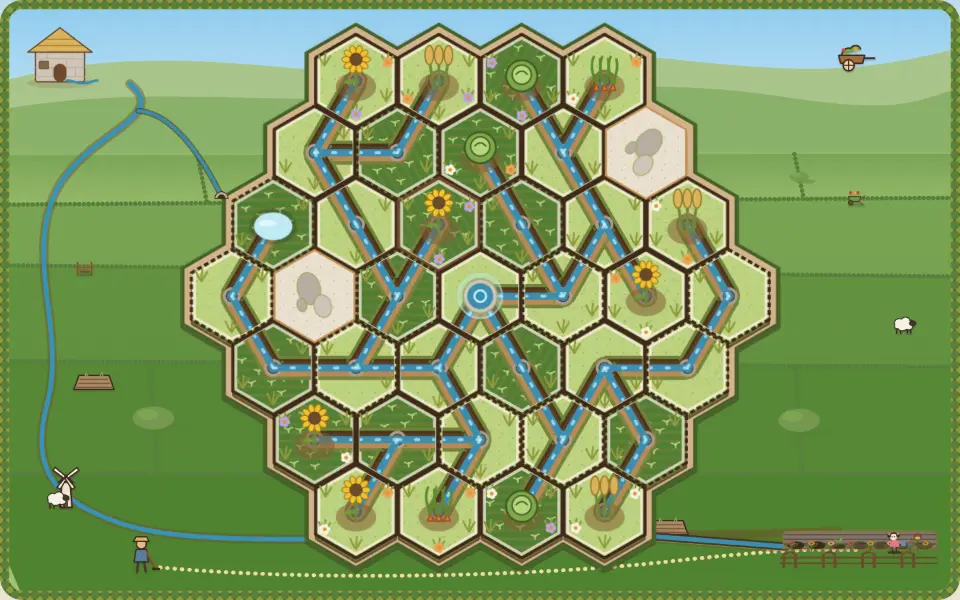
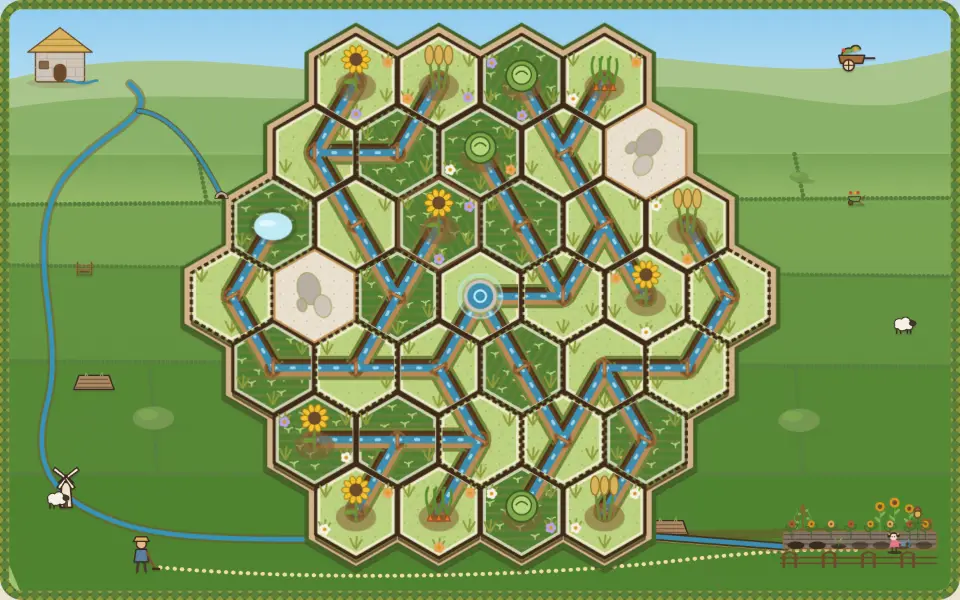
Runnel: Bea's garden gets a back row: a bean wigwam, sunflowers that wilt dry and lift when watered (plan 329, slice 1)
Claude-Session: https://claude.ai/code/session_01SimvMN1RHBGCWN7Eo7MzhN

diff --git a/games/runnel/index.html b/games/runnel/index.html
@@ -112,6 +112,20 @@
           <p class="farm-sign spring-sign">The spring house</p>
           <div class="bea-garden">
             <p class="farm-sign">Bea's garden</p>
+            <!-- Plan item 329: the garden's back row: a bean wigwam, sunflowers and a water butt. Dry, the sunflowers hang
+                 their heads; watered (data-watered), they lift and colour in, one after another. -->
+            <svg class="garden-back" viewBox="0 0 236 48" aria-hidden="true">
+              <g class="gb-wigwam" transform="translate(34 46)">
+                <path class="gb-pole" d="M-14 0L0 -42L14 0M0 -42L0 0" />
+                <path class="gb-vine" d="M-11 -8q4 -4 0 -9q-4 -5 1 -10q4 -4 1 -9M11 -8q-4 -4 0 -9q4 -5 -1 -10q-4 -4 -1 -9" />
+                <g class="gb-beans"><circle cx="-8" cy="-14" r="2.4" /><circle cx="8" cy="-20" r="2.4" /><circle cx="-5" cy="-27" r="2.2" /><circle cx="6" cy="-32" r="2" /><circle cx="-9" cy="-6" r="2.4" /><circle cx="9" cy="-9" r="2.4" /></g>
+                <path class="gb-pod" d="M-3 -18q-1 5 1 8M4 -12q-1 5 1 8" />
+              </g>
+              <g class="gb-sun s1" transform="translate(150 46)"><path class="gb-stem" d="M0 0V-38" /><path class="gb-leaf" d="M0 -14q-7 -3 -9 -9q7 0 9 6M0 -22q7 -3 9 -9q-7 0 -9 6" /><g transform="translate(0 -38)"><g class="gb-head"><circle r="7" class="gb-petals" /><circle r="3.4" class="gb-eye" /></g></g></g>
+              <g class="gb-sun s2" transform="translate(172 46)"><path class="gb-stem" d="M0 0V-44" /><path class="gb-leaf" d="M0 -16q-7 -3 -9 -9q7 0 9 6M0 -26q7 -3 9 -9q-7 0 -9 6" /><g transform="translate(0 -44)"><g class="gb-head"><circle r="7.5" class="gb-petals" /><circle r="3.6" class="gb-eye" /></g></g></g>
+              <g class="gb-sun s3" transform="translate(194 46)"><path class="gb-stem" d="M0 0V-35" /><path class="gb-leaf" d="M0 -12q-7 -3 -9 -9q7 0 9 6M0 -20q7 -3 9 -9q-7 0 -9 6" /><g transform="translate(0 -35)"><g class="gb-head"><circle r="6.5" class="gb-petals" /><circle r="3.2" class="gb-eye" /></g></g></g>
+              <g class="gb-butt" transform="translate(220 46)"><rect x="-8" y="-20" width="16" height="20" rx="3" /><path d="M-8 -13h16M-8 -6h16" /></g>
+            </svg>
             <div class="bea-crops" id="bea-crops"></div>
             <!-- Plan item 197: the garden grows as the fields are watered (seedlings, leaves, then flowers and a scarecrow). -->
             <svg class="garden-growth" viewBox="0 0 160 28" preserveAspectRatio="none" aria-hidden="true"><g class="gg" transform="translate(12 24)"><path class="gg-seed" d="M0 0v-4m0 1c-2 0-3-1-3-3 2 0 3 1 3 3m0-1c2 0 3-1 3-3-2 0-3 1-3 3"/><path class="gg-leaf" d="M0 0v-9m0 3c-4 0-6-2-6-5 4 0 6 2 6 5m0-2c4 0 6-2 6-5-4 0-6 2-6 5"/><g class="gg-flower"><path d="M0 0v-12"/><circle cx="0" cy="-13" r="3.2" class="gg-petal p0"/><circle cx="0" cy="-13" r="1.2" class="gg-eye"/></g></g><g class="gg" transform="translate(32 24)"><path class="gg-seed" d="M0 0v-4m0 1c-2 0-3-1-3-3 2 0 3 1 3 3m0-1c2 0 3-1 3-3-2 0-3 1-3 3"/><path class="gg-leaf" d="M0 0v-9m0 3c-4 0-6-2-6-5 4 0 6 2 6 5m0-2c4 0 6-2 6-5-4 0-6 2-6 5"/><g class="gg-flower"><path d="M0 0v-12"/><circle cx="0" cy="-13" r="3.2" class="gg-petal p1"/><circle cx="0" cy="-13" r="1.2" class="gg-eye"/></g></g><g class="gg" transform="translate(52 24)"><path class="gg-seed" d="M0 0v-4m0 1c-2 0-3-1-3-3 2 0 3 1 3 3m0-1c2 0 3-1 3-3-2 0-3 1-3 3"/><path class="gg-leaf" d="M0 0v-9m0 3c-4 0-6-2-6-5 4 0 6 2 6 5m0-2c4 0 6-2 6-5-4 0-6 2-6 5"/><g class="gg-flower"><path d="M0 0v-12"/><circle cx="0" cy="-13" r="3.2" class="gg-petal p2"/><circle cx="0" cy="-13" r="1.2" class="gg-eye"/></g></g><g class="gg" transform="translate(72 24)"><path class="gg-seed" d="M0 0v-4m0 1c-2 0-3-1-3-3 2 0 3 1 3 3m0-1c2 0 3-1 3-3-2 0-3 1-3 3"/><path class="gg-leaf" d="M0 0v-9m0 3c-4 0-6-2-6-5 4 0 6 2 6 5m0-2c4 0 6-2 6-5-4 0-6 2-6 5"/><g class="gg-flower"><path d="M0 0v-12"/><circle cx="0" cy="-13" r="3.2" class="gg-petal p0"/><circle cx="0" cy="-13" r="1.2" class="gg-eye"/></g></g><g class="gg" transform="translate(92 24)"><path class="gg-seed" d="M0 0v-4m0 1c-2 0-3-1-3-3 2 0 3 1 3 3m0-1c2 0 3-1 3-3-2 0-3 1-3 3"/><path class="gg-leaf" d="M0 0v-9m0 3c-4 0-6-2-6-5 4 0 6 2 6 5m0-2c4 0 6-2 6-5-4 0-6 2-6 5"/><g class="gg-flower"><path d="M0 0v-12"/><circle cx="0" cy="-13" r="3.2" class="gg-petal p1"/><circle cx="0" cy="-13" r="1.2" class="gg-eye"/></g></g><g class="gg" transform="translate(112 24)"><path class="gg-seed" d="M0 0v-4m0 1c-2 0-3-1-3-3 2 0 3 1 3 3m0-1c2 0 3-1 3-3-2 0-3 1-3 3"/><path class="gg-leaf" d="M0 0v-9m0 3c-4 0-6-2-6-5 4 0 6 2 6 5m0-2c4 0 6-2 6-5-4 0-6 2-6 5"/><g class="gg-flower"><path d="M0 0v-12"/><circle cx="0" cy="-13" r="3.2" class="gg-petal p2"/><circle cx="0" cy="-13" r="1.2" class="gg-eye"/></g></g><g class="gg" transform="translate(132 24)"><path class="gg-seed" d="M0 0v-4m0 1c-2 0-3-1-3-3 2 0 3 1 3 3m0-1c2 0 3-1 3-3-2 0-3 1-3 3"/><path class="gg-leaf" d="M0 0v-9m0 3c-4 0-6-2-6-5 4 0 6 2 6 5m0-2c4 0 6-2 6-5-4 0-6 2-6 5"/><g class="gg-flower"><path d="M0 0v-12"/><circle cx="0" cy="-13" r="3.2" class="gg-petal p0"/><circle cx="0" cy="-13" r="1.2" class="gg-eye"/></g></g><g class="gg" transform="translate(148 24)"><path class="gg-seed" d="M0 0v-4m0 1c-2 0-3-1-3-3 2 0 3 1 3 3m0-1c2 0 3-1 3-3-2 0-3 1-3 3"/><path class="gg-leaf" d="M0 0v-9m0 3c-4 0-6-2-6-5 4 0 6 2 6 5m0-2c4 0 6-2 6-5-4 0-6 2-6 5"/><g class="gg-flower"><path d="M0 0v-12"/><circle cx="0" cy="-13" r="3.2" class="gg-petal p1"/><circle cx="0" cy="-13" r="1.2" class="gg-eye"/></g></g><g class="gg-scarecrow" transform="translate(140 26)"><path d="M0 0v-22M-7 -16h14" /><circle cx="0" cy="-24" r="3.4" /><path d="M-4 -27h8l-4-4z" /></g></svg>

diff --git a/games/runnel/src/styles.css b/games/runnel/src/styles.css
@@ -4641,3 +4641,33 @@ body[data-mode='sunday'] .rail > .cal-title:first-of-type {
 }
 /* Plan item 315: the notebook's inked glyph size (46 px) doesn't shrink the steps' tiles. */
 .lesson-panel[data-notebook] .lc-steps .lc-step-art { width: 48px; height: 48px; }
+
+/* Plan item 329: Bea's garden's back row (a bean wigwam, sunflowers, a water butt) over its beds, so the garden reads as
+   a garden and not a plank trough. Dry, the sunflowers hang their heads in faded straw; watered, they lift and colour in
+   one after another over 600-900 ms (under reduced motion they change at once, with no turn). */
+.garden-back {
+  display: block;
+  width: 100%;
+  height: auto;
+  margin-bottom: -6px;
+  overflow: visible;
+  pointer-events: none;
+}
+.gb-pole { fill: none; stroke: var(--stake); stroke-width: 2; stroke-linecap: round; }
+.gb-vine { fill: none; stroke: var(--ga-leaf); stroke-width: 1.6; stroke-linecap: round; }
+.gb-beans circle { fill: var(--ga-leaf-2); }
+.gb-pod { fill: none; stroke: var(--ga-leaf); stroke-width: 1.8; stroke-linecap: round; }
+.gb-stem { fill: none; stroke: var(--ga-leaf); stroke-width: 2; stroke-linecap: round; }
+.gb-leaf { fill: var(--ga-leaf-2); }
+.gb-petals { fill: color-mix(in srgb, var(--gold) 40%, var(--soil)); transition: fill 600ms ease; }
+.gb-eye { fill: var(--soil); }
+.gb-head { transform-box: fill-box; transform-origin: 50% 100%; rotate: 65deg; transition: rotate 700ms cubic-bezier(.3, 1.4, .5, 1); }
+.gb-butt rect { fill: var(--stake); stroke: var(--groove); stroke-width: 1; }
+.gb-butt path { fill: none; stroke: var(--groove); stroke-width: 1.2; }
+.bea-garden[data-watered='true'] .gb-head { rotate: 0deg; }
+.bea-garden[data-watered="true"] .gb-petals { fill: var(--gold); }
+.bea-garden[data-watered='true'] .s2 :is(.gb-head, .gb-petals) { transition-delay: 100ms; }
+.bea-garden[data-watered='true'] .s3 :is(.gb-head, .gb-petals) { transition-delay: 200ms; }
+@media (prefers-reduced-motion: reduce) {
+  .gb-head { transition: none; }
+}

diff --git a/docs/plan/two-week-plan.md b/docs/plan/two-week-plan.md
@@ -3101,7 +3101,7 @@ The items come from fresh-eyes audits on 2026-11-01 and 2026-11-02 (items 25-32:
 - **Accept:** a picked and an unpicked card differ by more than the border (lift, ribbon). Power text ≥ 14 px at 4.5:1. Cath's box does not intersect Start. Setup specs pass. Shots P and D, light and dark.
 - **Size:** 2
 
-## 329. [ ] Runnel: Bea's garden as the payoff, and Cath standing in the valley *(lane B, in progress)*
+## 329. [ ] Runnel: Bea's garden as the payoff, and Cath standing in the valley *(lane B, in progress)* *(slice 1, 2026-11-11 21:35 lane B: the garden has a back row over its beds (`.garden-back` in index.html): a bean wigwam with runner beans, three sunflowers and a water butt. Dry, the sunflowers hang their heads (65 deg) in faded straw; watered (`data-watered`), they lift and turn gold one after another over 700 ms (on reduced motion only the colour changes). The garden is now 236x123 at D (was 236x79) and 164x85 at P (was 58). Key art re-shot; all 110 runnel site specs pass; shots scratchpad g329-{before,after}-{D,P}-{dry,wet}. Left: Bea herself standing in the garden before the solve, Cath on a path or footbridge instead of behind the wall, light/dark shots)*
 - **Why:** `plan1111c/runnel-D` (1155-1390 x 760-840): 'Bea's garden', where the water is going, is a brown plank trough behind a fence. Cath (440-600 x 570-860) floats behind a grey block wall (390-615 x 790-860) set in the middle of the fields. `runnel-P` has the same problem: the garden (220-380 x 705-760) and the wall (10-125 x 740-770).
 - **Build:** Bea's garden as an illustrated plot: raised beds, sunflowers, a bean wigwam, a scarecrow Bea painted, and Bea (6) herself with a watering can. It wilts while the valley is dry and blooms in a 600-900 ms stagger when the daily is solved; this is Bea's own garden, item 308's valley green-over doesn't touch it. Cath stands on a garden path or a footbridge with a ground shadow instead of behind a wall.
 - **Accept:** the garden is ≥ 230 x 120 px at D and ≥ 150 x 80 px at P. Its wilted and bloomed states are visibly different in shots. Under reduced motion it fades only. Runnel specs and the keyart freshness test pass (re-shoot the keyart). Shots P and D, light and dark.
